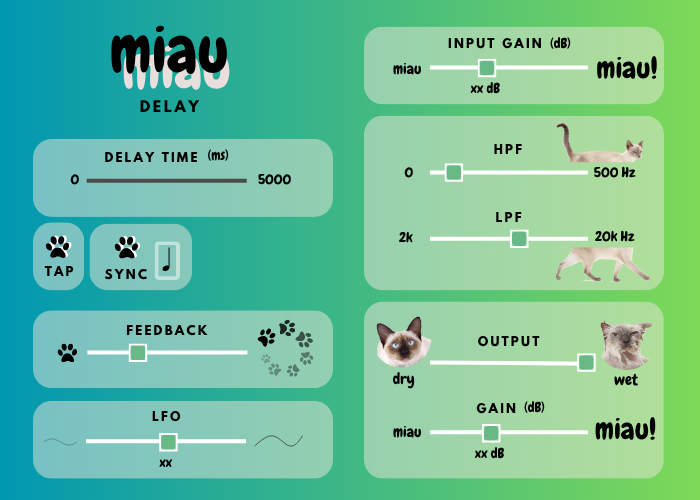
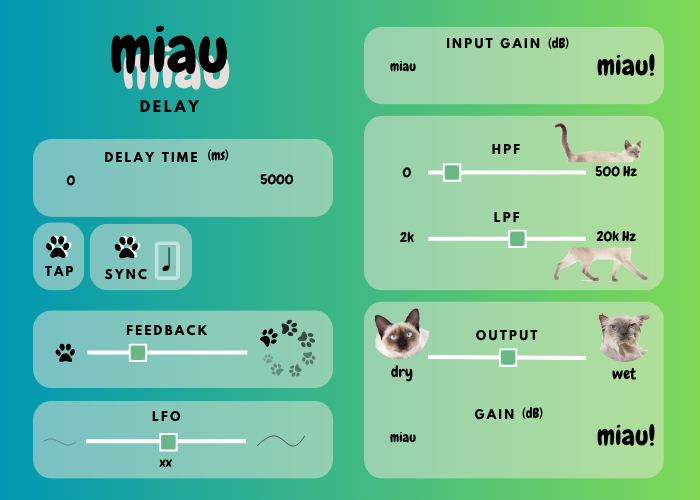
✨ Agregar dryWet, inputGain y outputGain

diff --git a/Source/PluginEditor.cpp b/Source/PluginEditor.cpp
@@ -22,6 +22,18 @@ MiauDelayAudioProcessorEditor::MiauDelayAudioProcessorEditor (MiauDelay& p)
     prepareSlider(delayTimeSlider);
     delayTimeAttach = std::make_unique<juce::AudioProcessorValueTreeState::SliderAttachment>(audioProcessor.apvts, "DelayTime", delayTimeSlider);
 
+    // DryWet slider
+    prepareSlider(dryWetSlider);
+    dryWetAttach = std::make_unique<juce::AudioProcessorValueTreeState::SliderAttachment>(audioProcessor.apvts, "DryWet", dryWetSlider);
+
+    // inputGain slider
+    prepareSlider(inputGainSlider);
+    inputGainAttach = std::make_unique<juce::AudioProcessorValueTreeState::SliderAttachment>(audioProcessor.apvts, "InputGain", inputGainSlider);
+    
+    // outputGain slider
+    prepareSlider(outputGainSlider);
+    outputGainAttach = std::make_unique<juce::AudioProcessorValueTreeState::SliderAttachment>(audioProcessor.apvts, "OutputGain", outputGainSlider);
+
 
     // Make sure that before the constructor has finished, you've set the
     // editor's size to whatever you need it to be.
@@ -32,6 +44,15 @@ MiauDelayAudioProcessorEditor::~MiauDelayAudioProcessorEditor()
 {
   delayTimeSlider.setLookAndFeel(nullptr);
   delayTimeSlider.removeListener(this);
+
+  dryWetSlider.setLookAndFeel(nullptr);
+  dryWetSlider.removeListener(this);
+
+  inputGainSlider.setLookAndFeel(nullptr);
+  inputGainSlider.removeListener(this);
+
+  outputGainSlider.setLookAndFeel(nullptr);
+  outputGainSlider.removeListener(this);
 }
 
 void MiauDelayAudioProcessorEditor::prepareSlider(juce::Slider& slider)
@@ -39,8 +60,7 @@ void MiauDelayAudioProcessorEditor::prepareSlider(juce::Slider& slider)
     slider.setSliderStyle(juce::Slider::SliderStyle::LinearHorizontal);
     slider.setTextBoxStyle(juce::Slider::TextBoxBelow, false, 50, 20);
     addAndMakeVisible(slider);
-	
- 
+
    slider.setLookAndFeel(&sliderLookAndFeel);
    slider.addListener(this);
 }
@@ -54,13 +74,16 @@ void MiauDelayAudioProcessorEditor::resized()
 {
     backgroundComponent.setBounds(getLocalBounds());
 
-    delayTimeSlider.setBounds(78, 170, 178, 42);
+    delayTimeSlider.setBounds(78, 167, 173, 42);
+	dryWetSlider.setBounds(418, 346, 173, 42);
+    inputGainSlider.setBounds(418, 55, 173, 42);
+    outputGainSlider.setBounds(418, 428, 173, 42);
 }
 
 void MiauDelayAudioProcessorEditor::sliderValueChanged(juce::Slider* s)
 {
-    if (s == &delayTimeSlider)
+    if (s == &inputGainSlider)
     {
-       //DBG ("Slider changed: " << delayTimeSlider.getValue());
+       DBG ("input Slider changed: " << dryWetSlider.getValue());
     }
 }

diff --git a/Source/PluginProcessor.h b/Source/PluginProcessor.h
@@ -10,6 +10,8 @@
 
 #include <JuceHeader.h>
 #include "DSP/Delay.h"
+#include "DSP/DryWet.h"
+#include "DSP/Gain.h"
 
 //==============================================================================
 /**
@@ -56,21 +58,18 @@ public:
     void getStateInformation (juce::MemoryBlock& destData) override;
     void setStateInformation (const void* data, int sizeInBytes) override;
 
-   // void DelayPrueba::fillDelayBuffer(int channel, const int bufferLength, const int delayBufferLength, const float* bufferData, const float* delayBufferData);
-   // void DelayPrueba::getFromDelayBuffer(juce::AudioBuffer<float>& buffer, int channel, const int bufferLength, const int delatyBufferLength, const float* bufferData, const float* delayBufferData);
-
     juce::AudioProcessorValueTreeState apvts;
 	juce::AudioProcessorValueTreeState::ParameterLayout createParameters();
 
     void updateParameters();
     
-
 private:
-   // juce::AudioBuffer<float> mDelayBuffer;
-   // int mWritePosition{ 0 };
-   // int mSampleRate{ 44100 };
     Delay delay;
+    DryWet dryWet;
+    Gain inputGain;
+    Gain outputGain;
     
+    juce::AudioBuffer<float> dryBuffer;
 
     //==============================================================================
     JUCE_DECLARE_NON_COPYABLE_WITH_LEAK_DETECTOR (MiauDelay)

diff --git a/Source/DSP/DryWet.cpp b/Source/DSP/DryWet.cpp
@@ -1,0 +1,37 @@
+/*
+  ==============================================================================
+
+    DryWet.cpp
+    Created: 17 Jun 2025 10:51:43pm
+    Author:  masal
+
+  ==============================================================================
+*/
+
+#include "DryWet.h"
+
+DryWet::DryWet() {};
+DryWet::~DryWet() {};
+
+void DryWet::setDryWetValue(float newDryWetValue)
+{
+    dryWetValue = newDryWetValue;
+}
+
+void DryWet::process(juce::AudioBuffer<float>& dryBuffer, juce::AudioBuffer<float>& wetBuffer)
+{
+    for (int channel = 0; channel < dryBuffer.getNumChannels(); channel++)
+    {
+        for (int i = 0; i < dryBuffer.getNumSamples(); i++)
+        {
+            float drySample = dryBuffer.getSample(channel, i);
+            float wetSample = wetBuffer.getSample(channel, i);
+
+            float outSample = (drySample * (1 - dryWetValue)) + (wetSample * dryWetValue);
+
+            wetBuffer.setSample(channel, i, outSample);
+        }
+    }
+}
+
+

diff --git a/Source/DSP/Gain.cpp b/Source/DSP/Gain.cpp
@@ -1,0 +1,32 @@
+/*
+  ==============================================================================
+
+    Gain.cpp
+    Created: 18 Jun 2025 5:10:02pm
+    Author:  masal
+
+  ==============================================================================
+*/
+
+#include "Gain.h"
+
+Gain::Gain() {};
+Gain::~Gain() {};
+
+void Gain::setGainValue(float newGainValue)
+{
+    gainValue = newGainValue;
+}
+
+void Gain::process(juce::AudioBuffer<float>& buffer)
+{
+    for (int channel = 0; channel < buffer.getNumChannels(); channel++)
+    {
+        for (int i = 0; i < buffer.getNumSamples(); i++)
+        {
+            auto sample = buffer.getSample(channel, i);
+            float outSample = sample * gainValue;
+            buffer.setSample(channel, i, outSample);
+        }
+    }
+}

diff --git a/Source/PluginEditor.h b/Source/PluginEditor.h
@@ -33,9 +33,8 @@ public:
 private:
     MiauDelay& audioProcessor;
 
-    juce::Slider delayTimeSlider; //inGainSlider, dryWetSlider, feedbackSlider, dryWetSlider, outGainSlider, hpfSlider, lpfSlider, lfoSlider;
-    std::unique_ptr<juce::AudioProcessorValueTreeState::SliderAttachment>  delayTimeAttach; //gainAttach, rateAttach, panAttach, dryWetAttach;
-
+    juce::Slider delayTimeSlider, dryWetSlider, inputGainSlider, outputGainSlider; // feedbackSlider, hpfSlider, lpfSlider, lfoSlider;
+    std::unique_ptr<juce::AudioProcessorValueTreeState::SliderAttachment>  delayTimeAttach, dryWetAttach, inputGainAttach, outputGainAttach; //gainAttach, rateAttach, panAttach;
 
     juce::Image backgroundImage;
     juce::ImageComponent backgroundComponent;

diff --git a/Source/DSP/DryWet.h b/Source/DSP/DryWet.h
@@ -1,0 +1,26 @@
+/*
+  ==============================================================================
+
+    DryWet.h
+    Created: 17 Jun 2025 10:51:43pm
+    Author:  masal
+
+  ==============================================================================
+*/
+
+#pragma once
+#include <JuceHeader.h>
+
+class DryWet
+{
+public:
+    DryWet();
+    ~DryWet();
+
+    void setDryWetValue(float newDryWetValue);
+
+    void process(juce::AudioBuffer<float>& dryBuffer, juce::AudioBuffer<float>& wetBuffer);
+
+private:
+    float dryWetValue{ 0.5f };
+};

diff --git a/Source/DSP/Gain.h b/Source/DSP/Gain.h
@@ -1,0 +1,25 @@
+/*
+  ==============================================================================
+
+    Gain.h
+    Created: 18 Jun 2025 5:10:02pm
+    Author:  masal
+
+  ==============================================================================
+*/
+
+#pragma once
+#include <JuceHeader.h>
+
+class Gain
+{
+public:
+    Gain();
+    ~Gain();
+
+    void setGainValue(float newGainValue);
+    void process(juce::AudioBuffer<float>& buffer);
+
+private:
+    float gainValue { 1.0f };
+};
